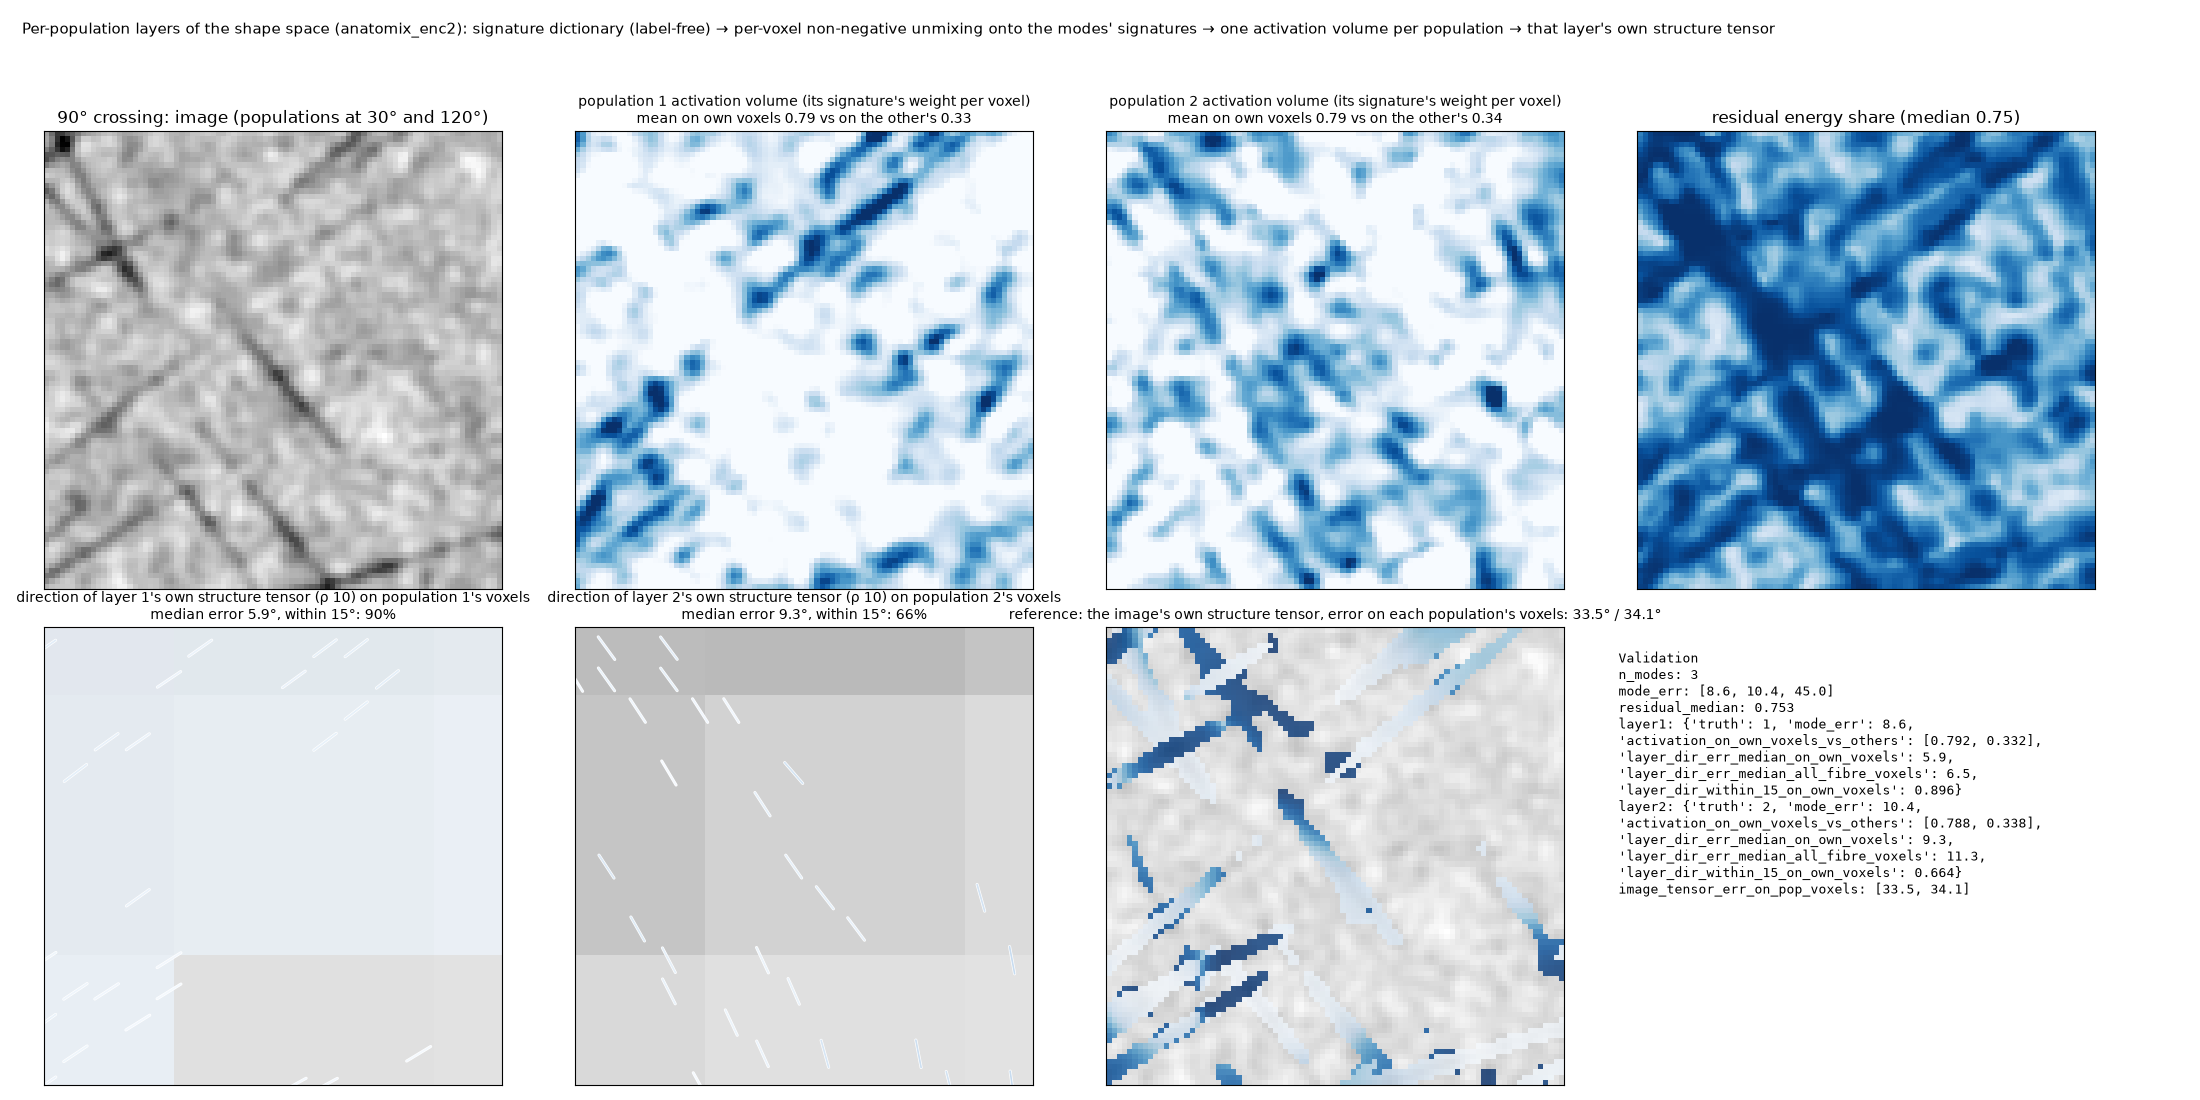
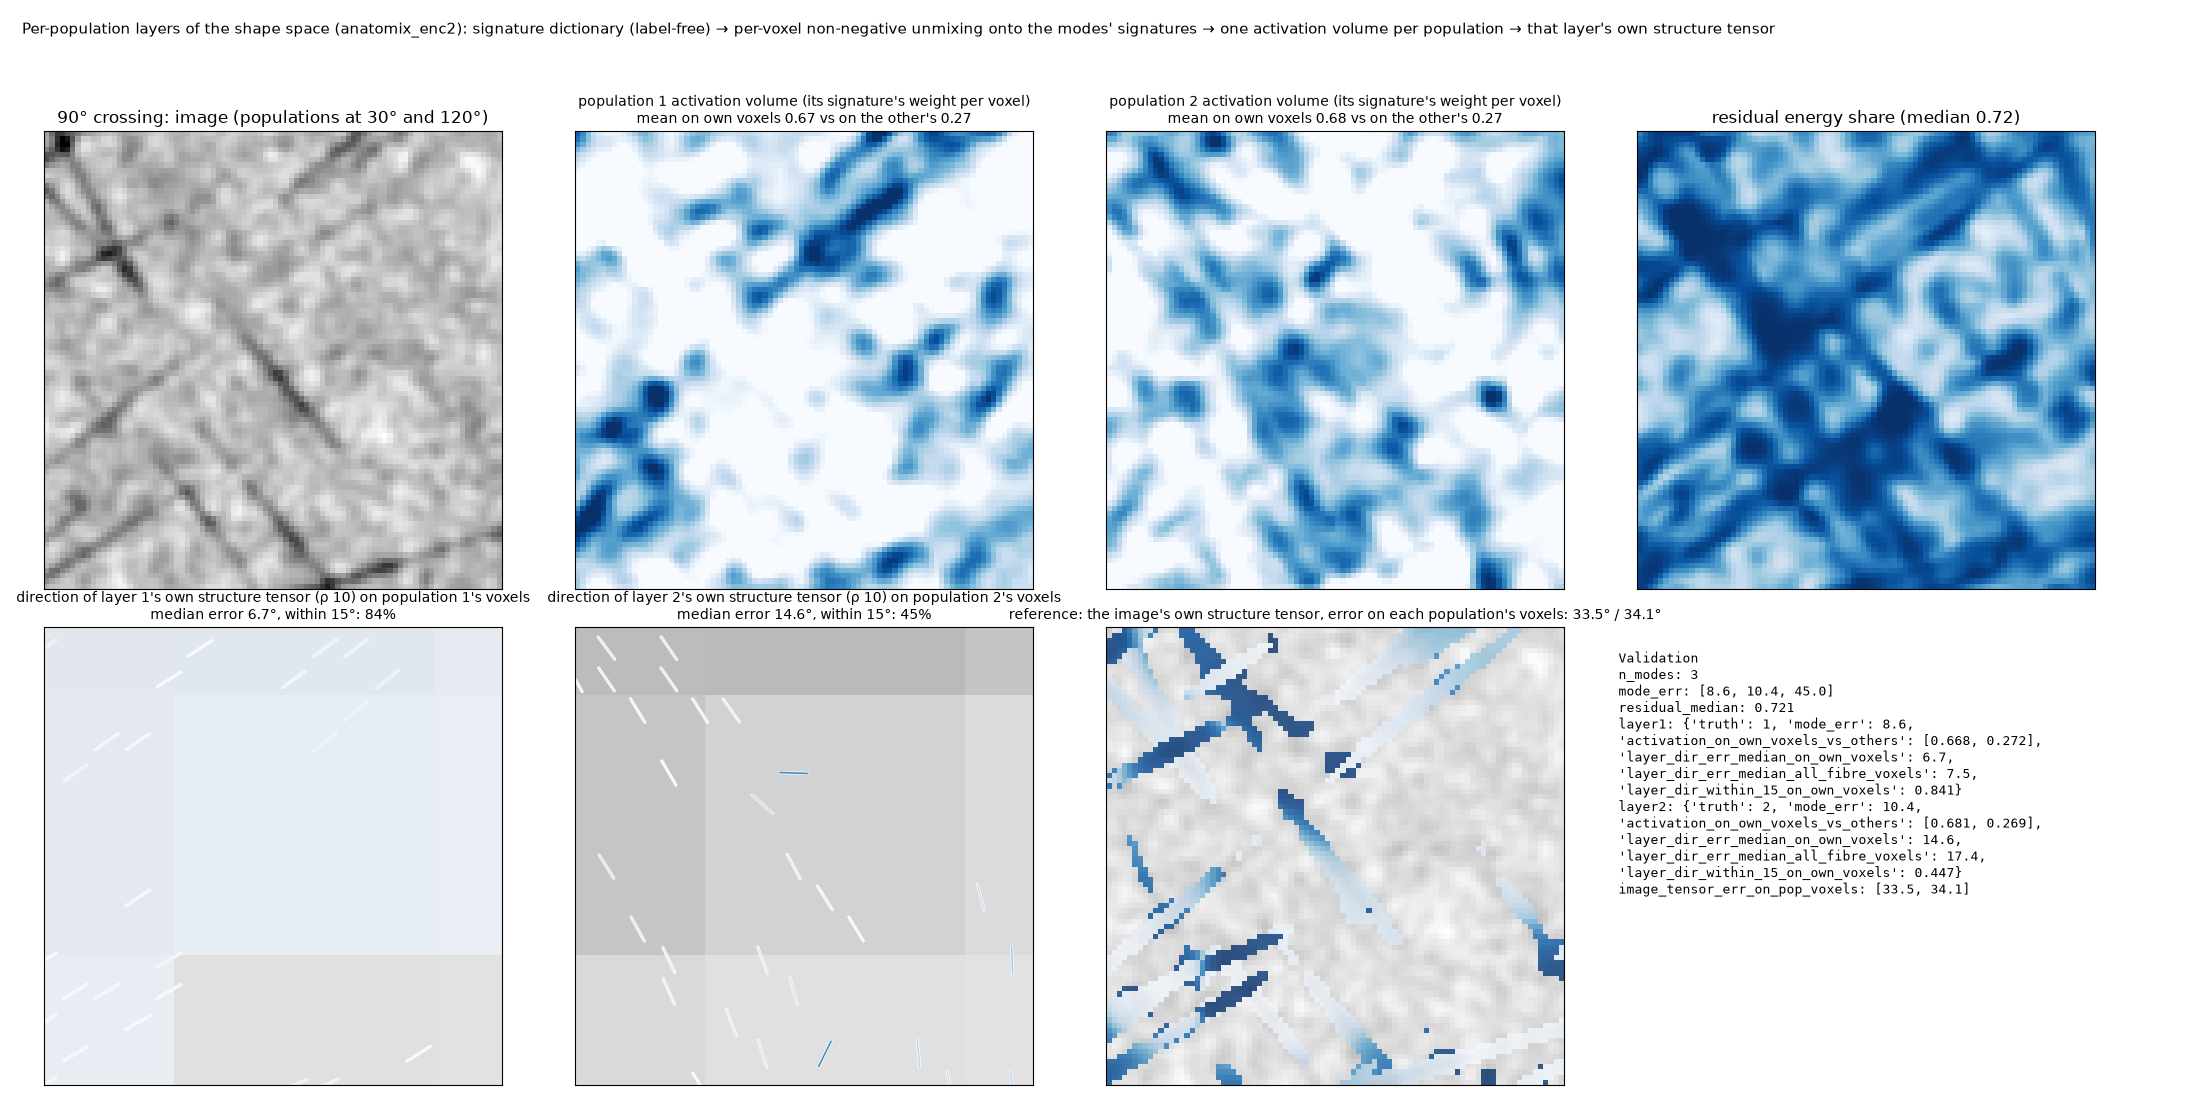
Smoothing sweep (results log §24): the activation's resolution is the feature's receptive field; the average trades the two layers

diff --git a/docs/TCA_FIELD_RESULTS.md b/docs/TCA_FIELD_RESULTS.md
@@ -720,3 +720,29 @@ The 3-population field is exported (`fields/phantom_3pop_population_field.zarr`:
 builder, kept as a later step.
 
 ![N populations](../img/n_populations.png)
+
+## 24. What sets the activation's resolution: the feature average (`--smooth` 1 / 3 / 5; seed 0, ρ 10)
+
+The activation image is read voxel by voxel from the encoder-2 features (no spatial coupling in the unmixing), so
+its resolution is the features' — a receptive field of **16 voxels** (three 3³ convolutions, a 2× pool, two more
+3³ convolutions at stride 2; 0.32 mm), sampled every 2 voxels and upsampled — plus the `smooth`³ box average the
+read-out applies before standardising. The sweep over that average:
+
+| smooth | single fibres per voxel (median; within 15°) | 90° crossing: windows both ≤ 15° · pair error | 60° | 45° | layers at 60°: own-tensor error, layer 1 / layer 2 | at 90° | at 45° | residual |
+|---|---|---|---|---|---|---|---|---|
+| 1 | 11.9°; 57% | 78% · 4.4° | 14% · 23° | 10% | 22.3° / 6.3° | 5.7° / 8.5° | 9.9° / 15.0° | 0.76–0.78 |
+| 3 | 10.0°; 66% | 70% · 5.2° | 11% · 23° | 15% | 19.9° / 6.4° | 5.9° / 9.3° | 10.2° / 13.2° | 0.72–0.75 |
+| 5 | 8.2°; 75% | 73% · 5.5° | 14% · 22° | 7% | 11.7° / 17.6° | 6.7° / 14.6° | 10.8° / 15.1° | 0.67–0.72 |
+
+- The average helps the per-voxel readout on single fibres (57 → 75% within 15°) and does nothing for the crossing
+  separation (the 60° pair stays at 22–23°, 11–14% of windows): the 60° limit is the feature's own mixing over its
+  16-voxel receptive field, not per-voxel noise.
+- On the layers it is a trade: a larger average rescues the weaker layer at 60° (22 → 12°) and degrades the
+  stronger one (6 → 18°); 3 is the balance, and 90° / 45° are insensitive (6–15°).
+- A sharper activation therefore needs a sharper *feature* — encoder block 1 (receptive field 7 voxels, full
+  resolution) stacked with block 2 — not a smaller average.
+
+The DEC-by-activation overlay (each layer's direction as colour, its activation as opacity, over the image;
+`population_layers_dec_c60.png`, `fig_dec_overlay.py`) shows the two layers of the 60° crossing in two colours
+where they separate, and on the real block shows at a glance that one of the two layers is a coherent direction
+(one colour) and the other is not (a patchwork) — a layer-coherence check without a number.
